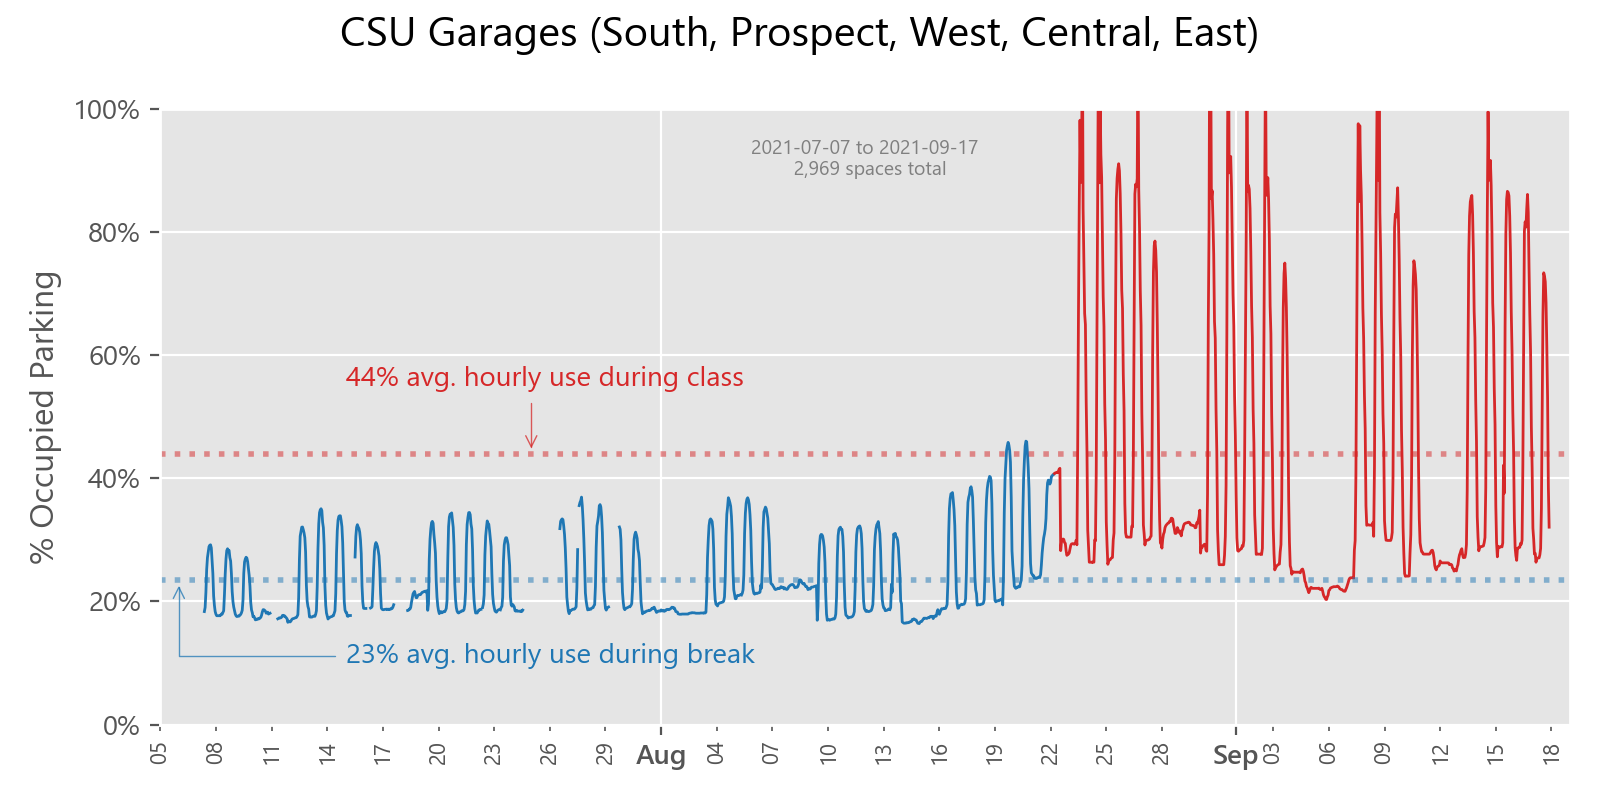
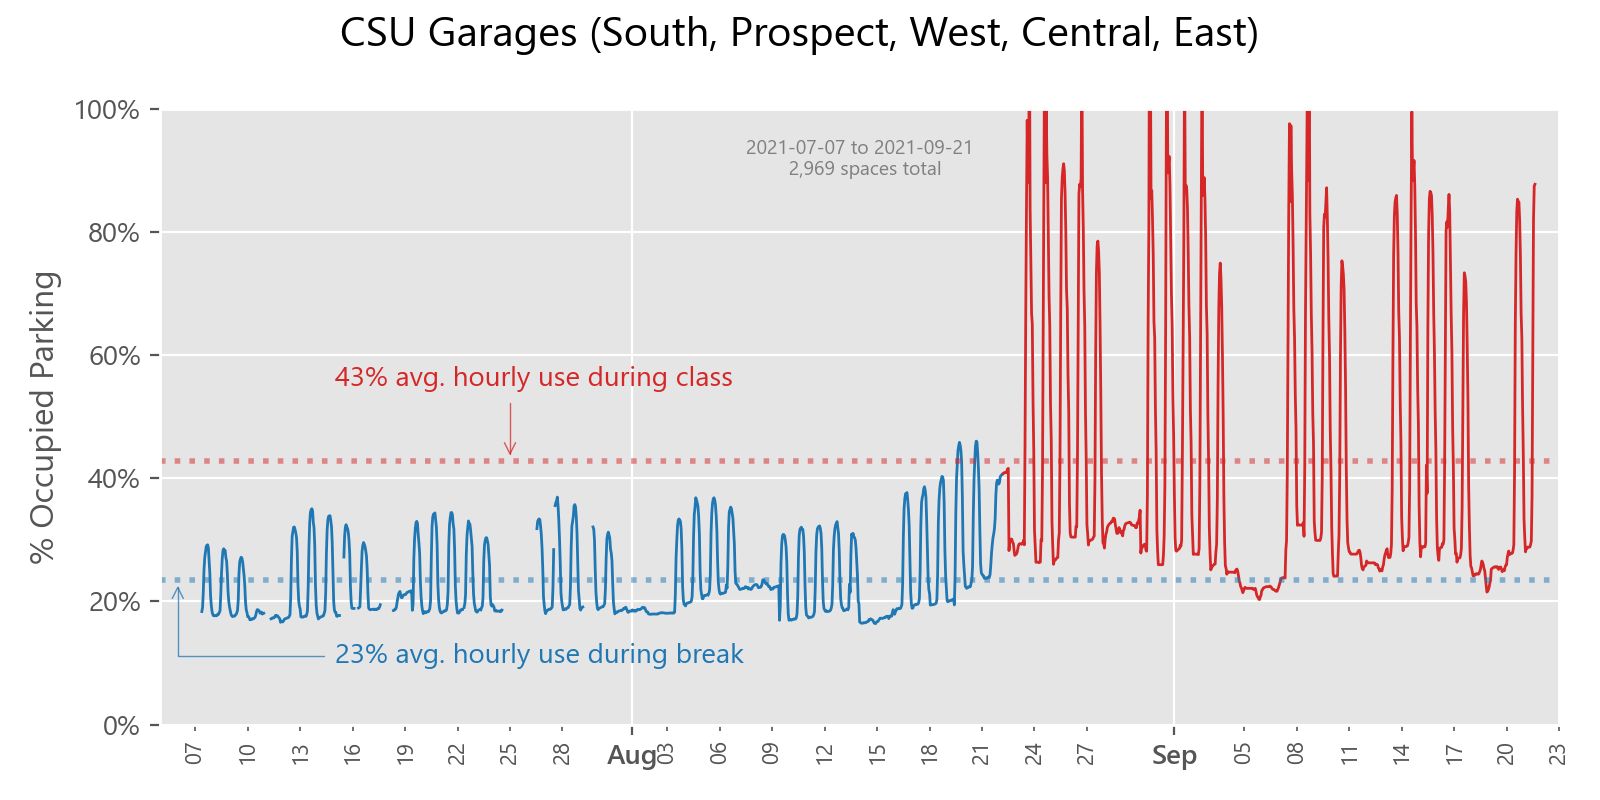
Scrape update 9-21-21

diff --git a/charts.py b/charts.py
@@ -2,7 +2,6 @@
 # You can choose to save the figures
 import matplotlib.pyplot as plt
 import matplotlib.dates as md
-import matplotlib.ticker
 import pandas as pd
 import matplotlib as mpl
 import numpy as np
@@ -18,7 +17,7 @@ select_col = [field for field in cols if 'spaces' in field]
 capacity_total = sum([611, 291, 600, 867, 600])  # total parking capacity per facility found on website in order of
 # data,i.e. 'South', 'Prospect', 'West', 'Central', 'East'
 plot_df = df[select_col].copy()
-plot_df['total_open'] = plot_df.sum(axis=1) # total number of open spaces in feed
+plot_df['total_open'] = plot_df.sum(axis=1)  # total number of open spaces in feed
 plot_df['percent_use'] = 1 - (plot_df.total_open / capacity_total)  # get inverse of percent open (a.k.a percent in use)
 avg_empty = plot_df['total_open'].mean()  # average number of open spaces available
 construction_cost = avg_empty * 20000 / 1000000  # cost of empty spaces in millions dollars
@@ -55,9 +54,6 @@ ax.set_ylabel('% Occupied Parking')
 ax.set_ylim(0, 1)
 ax.yaxis.set_major_formatter('{x:.0%}')
 
-
-
-# TODO add average use lines for in season and summer season separately
 average_use_break = off_season_hrs['percent_use'].mean()
 average_use_school = in_school_hrs['percent_use'].mean()
 
@@ -76,8 +72,9 @@ plt.annotate(f'{average_use_school:.0%} avg. hourly use during class', xy=(date_
              arrowprops={'arrowstyle': '->', 'connectionstyle': "angle,angleA=180,angleB=90", 'color': 'tab:red',
                          'lw': '.5', 'alpha': 0.75})
 
-plt.text(.5, .95, f'{date_min+2} to {date_max-2}\n  {capacity_total:,d} spaces total', size=7, va='top', c='gray', ha='center', transform= ax.transAxes)
+plt.text(.5, .95, f'{date_min + 2} to {date_max - 2}\n  {capacity_total:,d} spaces total', size=7, va='top', c='gray',
+         ha='center', transform=ax.transAxes)
 
 plt.suptitle(f'CSU Garages (South, Prospect, West, Central, East)', size=15)
 plt.tight_layout()
-plt.savefig('./exports/ex1.png' )
+plt.savefig('./exports/ex1.png')
